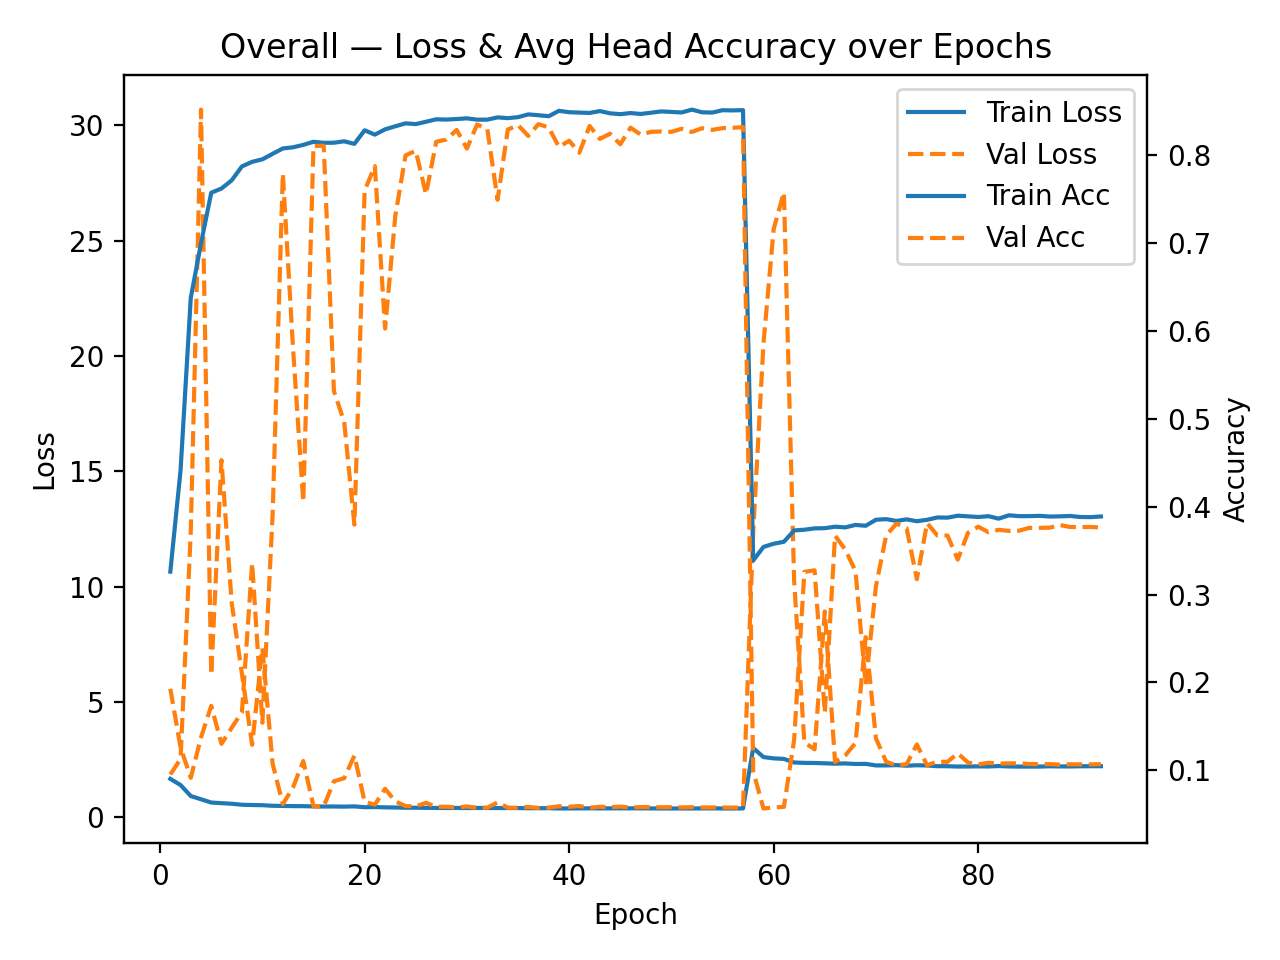
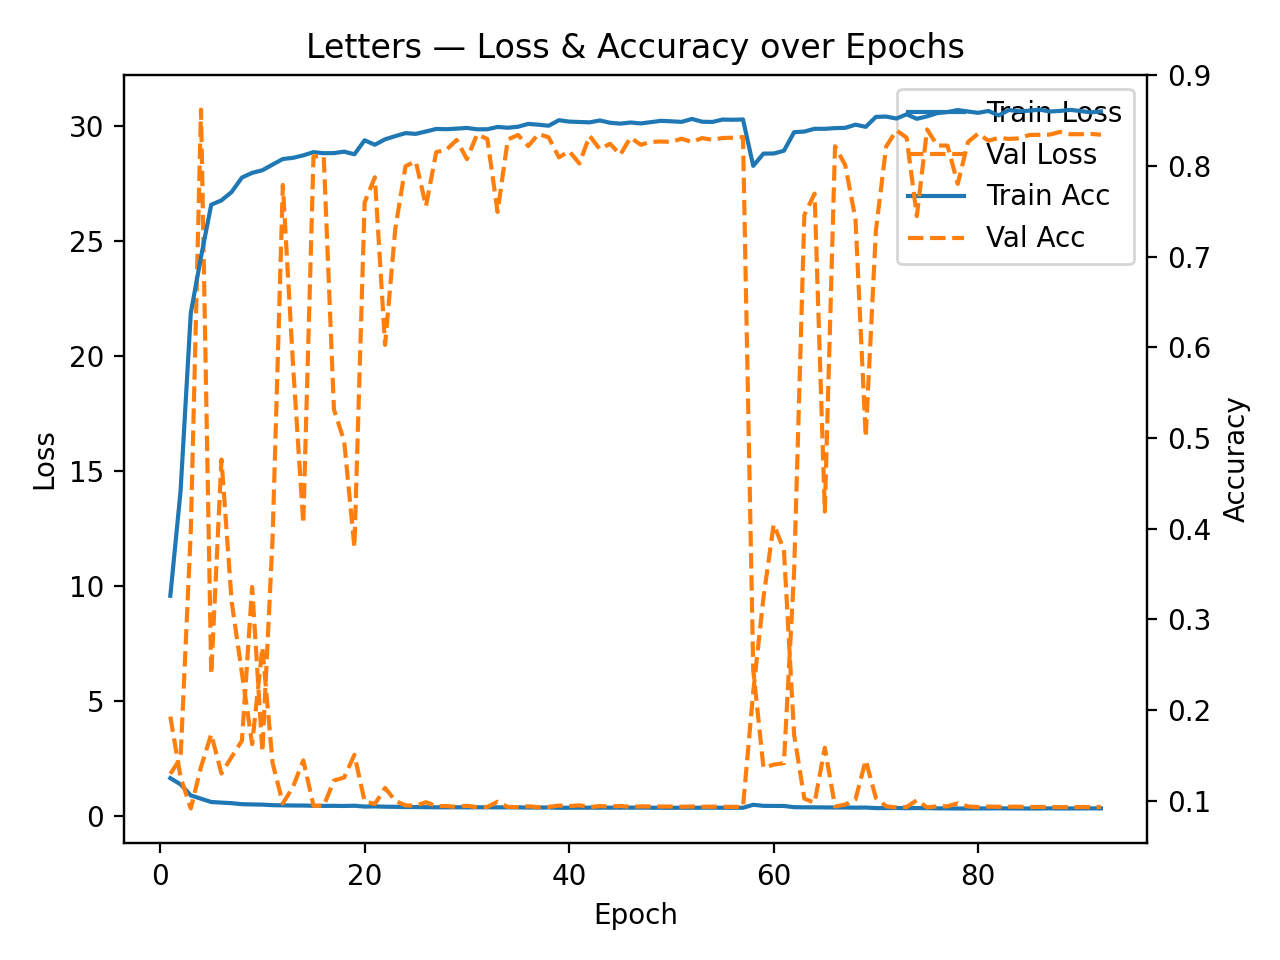
Make the star project page match the code and the shipped model
Corrected against the star-spectral-classifier audit
(loggger101/star-spectral-classifier#1):

- Drop the O row (78 -> 283): the script's balancing reproduces the six
  remaining rows exactly, and the run had no O stars. The "quality gates
  drop a handful" explanation for 96,322 vs 96,039 was wrong.
- Add the train/test overlap (27.4% of test images have a copy in
  training) and the unseen-star check: 82.3% top-1 on 6,944 bright
  A/B/F/G stars from the second Kaggle bundle; faint K/M stars mostly
  read as G.
- Replace the 34.4% / 54.1% subclass tile (report figures not in the
  shipped metrics; top-2 is 51.5% there) with the unseen-star result.
- Four conv blocks, nothing frozen between stages, stage head never
  trained (the bundle has no stage labels), G/K not K/M as the largest
  adjacent confusion, inference prints predictions (no class map,
  confidence scores or CSV).
- training_curves_letters.webp was the overall-curve plot; replaced
  with the real letter-head plot (lossless, pixel-identical to the
  repo PNG) so the caption is true.

diff --git a/star-catalog.html b/star-catalog.html
@@ -149,8 +149,8 @@
         <p class="section-intro">
           A catalog-driven deep-learning pipeline that classifies stars from RGB image cutouts. The model predicts the
           Morgan–Keenan spectral letter and the subclass digit (0–9 within the predicted letter) from photometric
-          imagery alone. O is the rarest class by a wide margin and does not appear in the trained model's label set, so
-          the letter head reported here resolves six classes: B, A, F, G, K, M.
+          imagery alone. O stars are rare enough that none were in this run's training data, so the letter head reported
+          here resolves six classes: B, A, F, G, K, M.
         </p>
         <p>
           Inputs are constructed by querying VizieR catalogs for coordinates, magnitudes, colors, and spectral hints,
@@ -182,9 +182,8 @@
         <h2>Dataset</h2>
         <p class="section-intro">
           The raw class distribution is steeply imbalanced: K and F stars dominate; O and M are rare. The builder
-          applies a "curved" target distribution to soften this skew without throwing away the long tail. Even after
-          balancing, O remains two orders of magnitude smaller than K, and it does not appear in the label set the
-          reported model was trained against — the letter metrics below are six-class.
+          applies a "curved" target distribution to soften this skew without throwing away the long tail. The run behind
+          the reported model had no O stars, so the letter metrics below are six-class.
         </p>
         <div class="results-tableWrap" data-region-label="Letter class counts, scrollable table">
           <table class="results-table">
@@ -229,11 +228,6 @@
                 <td>285</td>
                 <td>1,572</td>
               </tr>
-              <tr>
-                <td>O</td>
-                <td>78</td>
-                <td>283</td>
-              </tr>
             </tbody>
           </table>
         </div>
@@ -265,9 +259,10 @@
           </table>
         </div>
         <p class="subsection-intro">
-          Splits total 96,039 rows, slightly below the post-balancing total of 96,322 because the per-split quality
-          gates reject a handful of frames that survived initial balancing (corrupted decodes, missing files, or
-          borderline centring).
+          Splits total 96,039 rows, the same as the balanced set. Balancing draws the minority letters with replacement
+          before the split, so copies of one image can sit in both train and test: 27.4% of the test images have an
+          identical copy in training (M 97.9%, B 66.8%, G 58.7%, A 53.3%; F and K, only downsampled, none). The
+          unseen-star check under Results measures how far the headline holds.
         </p>
         <h3 class="subsection-title">Quality gates</h3>
         <ul class="contact-list" role="list">
@@ -279,10 +274,10 @@
       </section>
       <section class="section" id="model">
         <h2>Model architecture</h2>
-        <p class="section-intro">A compact, regularized three-block ConvNet with three jointly-trained heads.</p>
+        <p class="section-intro">A compact, regularized four-block ConvNet with three jointly-trained heads.</p>
         <p>
-          <em>Conv → BatchNorm → ReLU</em> blocks feed global average pooling and dense layers. Three softmax heads sit
-          on top:
+          Four <em>Conv → BatchNorm → ReLU</em> blocks (32 → 64 → 128 → 256 channels) feed global average pooling and a
+          shared dense layer. Three softmax heads sit on top:
         </p>
         <ul class="contact-list" role="list">
           <li><strong>Letter head</strong>: softmax over the present spectral letters.</li>
@@ -291,19 +286,19 @@
             letter-specific subclass boundaries from a single classifier.
           </li>
           <li>
-            <strong>Stage head</strong>: auxiliary softmax over evolutionary stage, trained whenever stage labels are
-            available; not reported in the headline metrics below.
+            <strong>Stage head</strong>: auxiliary softmax over evolutionary stage. It never trained in this run: the
+            image bundle carries no stage labels, so its loss weight stayed at zero. It is not reported below.
           </li>
         </ul>
       </section>
       <section class="section" id="training">
         <h2>Training</h2>
         <p>
-          Two-stage. Stage 1 optimizes the letter head alone to establish a stable backbone. Stage 2 unfreezes the full
-          multi-task model, balancing letter and combined-head losses; the stage head joins if any stage labels are
-          present. Class balance is handled by curved resampling plus class-balanced sample weights. The 70 / 15 / 15
-          split is stratified on letter; <code>tf.data</code> caching and prefetching keep the input pipeline ahead of
-          the GPU. Plateau-triggered LR reductions and early stopping with best-weight restoration prevent overfitting.
+          Two-stage. Stage 1 trains the whole network on the letter loss alone to establish a stable backbone. Stage 2
+          adds the combined-head loss at equal weight and a lower learning rate; nothing is frozen in either stage.
+          Class balance is handled by curved resampling plus class-balanced sample weights. The 70 / 15 / 15 split is
+          stratified on letter. Plateau-triggered LR reductions and early stopping with best-weight restoration guard
+          against overfitting.
         </p>
         <figure class="project-figure">
           <img
@@ -316,8 +311,9 @@
             decoding="async"
           />
           <figcaption>
-            Letter-head loss and accuracy across training. The two-stage schedule is visible: Stage 1 establishes the
-            backbone on the letter task alone, before Stage 2 unfreezes the full multi-task model.
+            Letter-head loss and accuracy across training. The two-stage schedule is visible: Stage 1 trains on the
+            letter task alone for 57 epochs; when Stage 2 adds the combined loss, validation accuracy dips sharply
+            before recovering to its earlier level.
           </figcaption>
         </figure>
       </section>
@@ -325,9 +321,14 @@
         <h2>Results</h2>
         <p class="section-intro">
           The letter head is the headline number: it tracks the macroscopic temperature sequence robustly. Subclass
-          resolution is harder because RGB cutouts encode color differences only coarsely. Subclass accuracy is reported
-          two ways: conditional on the letter being correct (isolates the subclass head's own contribution) and overall
-          (penalizes letter errors as well).
+          resolution is harder because RGB cutouts encode color differences only coarsely.
+        </p>
+        <p>
+          Because 27.4% of the test set has a copy in training, the model was also scored on 17,672 stars from a
+          separate bundle that it never saw. On the 6,944 A, B, F and G stars among them, as bright as the training
+          data, it gets 82.3% top-1, so for that population the headline roughly holds. That bundle's K and M stars are
+          more than ten magnitudes fainter than the training stars, and the model mostly calls them G: it has not
+          learned faint stars.
         </p>
         <ul class="metrics-grid" role="list">
           <li class="metric">
@@ -346,14 +347,14 @@
             <span class="metric__hint">Precision 0.847 / Recall 0.848</span>
           </li>
           <li class="metric">
-            <span class="metric__value">34.4%</span>
-            <span class="metric__label">Subclass | correct letter</span>
-            <span class="metric__hint">Top-2 subclass: 54.1%</span>
+            <span class="metric__value">82.3%</span>
+            <span class="metric__label">Letter top-1, unseen stars</span>
+            <span class="metric__hint">6,944 bright A/B/F/G stars from a separate bundle</span>
           </li>
           <li class="metric">
             <span class="metric__value">30.6%</span>
             <span class="metric__label">Subclass overall</span>
-            <span class="metric__hint">10-way digit prediction</span>
+            <span class="metric__hint">10-way digit prediction; top-2: 51.5%</span>
           </li>
           <li class="metric">
             <span class="metric__value">30.2%</span>
@@ -378,7 +379,7 @@
             decoding="async"
           />
           <figcaption>
-            Held-out test set, 14,406 samples. Confusion concentrates on A/F, F/G, and K/M, neighbouring letters in the
+            Held-out test set, 14,406 samples. Confusion concentrates on A/F, F/G, and G/K, neighbouring letters in the
             H–R diagram, which is consistent with the model learning a smooth temperature sequence.
           </figcaption>
         </figure>
@@ -391,7 +392,7 @@
         </p>
         <ul class="contact-list" role="list">
           <li>
-            <strong>Letter confusion</strong> is dominated by A/F, F/G, and K/M pairs, neighboring colors in the H–R
+            <strong>Letter confusion</strong> is dominated by A/F, F/G, and G/K pairs, neighboring colors in the H–R
             diagram.
           </li>
           <li>
@@ -423,9 +424,9 @@
       <section class="section" id="utilization">
         <h2>Inference program</h2>
         <p>
-          The inference script loads the trained model and the class map, reads new star images, applies the same
-          preprocessing as training, and writes per-object predictions for letter and subclass with confidence scores.
-          Batch evaluation produces a CSV that can be merged back onto catalog rows for downstream analysis.
+          The inference script loads the trained model, reads a star image or a folder of them, applies the same
+          preprocessing as training, and prints a letter + subclass prediction for each (e.g. <code>G2</code>), with the
+          catalogue answer alongside when a bundle's metadata is supplied.
         </p>
       </section>
       <section class="section" id="limitations">
@@ -440,8 +441,9 @@
             but borderline frames still leak through.
           </li>
           <li>
-            <strong>Rare classes</strong>: O and M, even after balancing, are limited by raw availability. Targeted
-            sampling or modest augmentation would help further.
+            <strong>Rare classes</strong>: O is absent from this run and M is limited by raw availability even after
+            balancing. Targeted sampling or modest augmentation would help, provided the resampling happens after the
+            split.
           </li>
           <li>
             <strong>Next directions</strong>: calibrated photometry, extinction estimates, NIR bands, and attention
